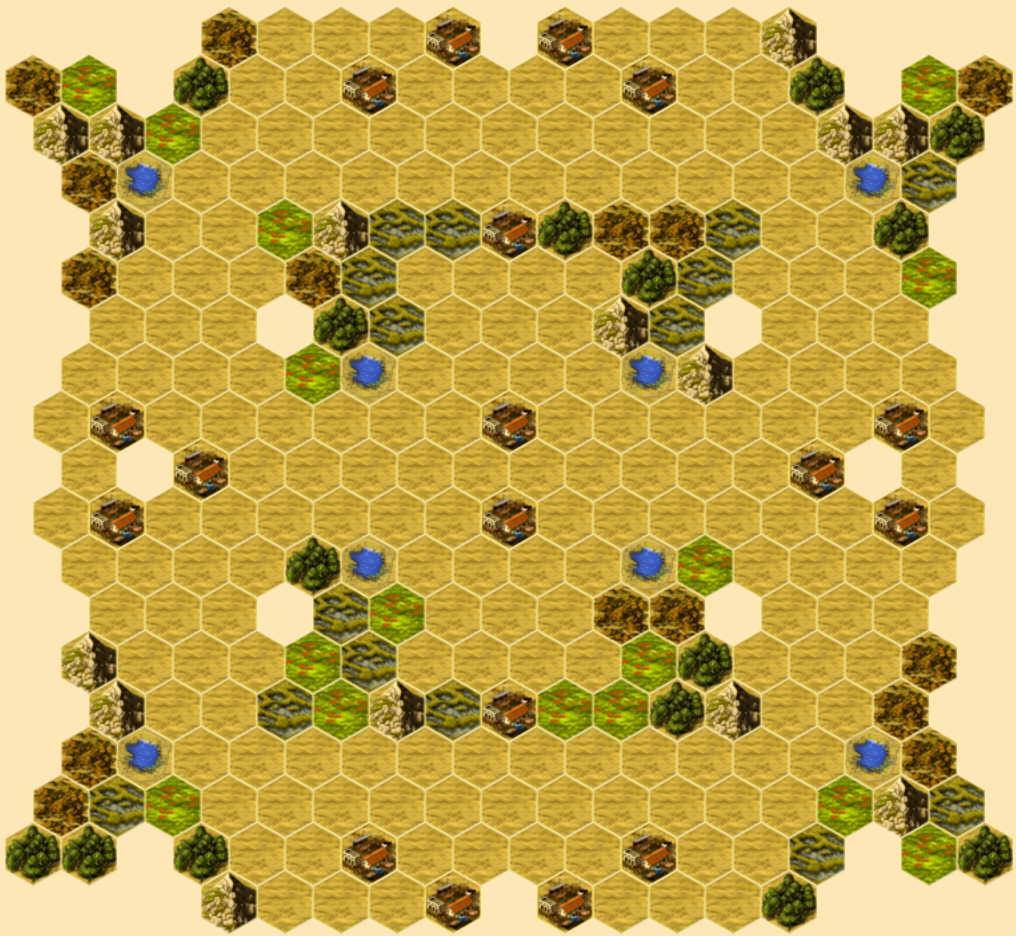
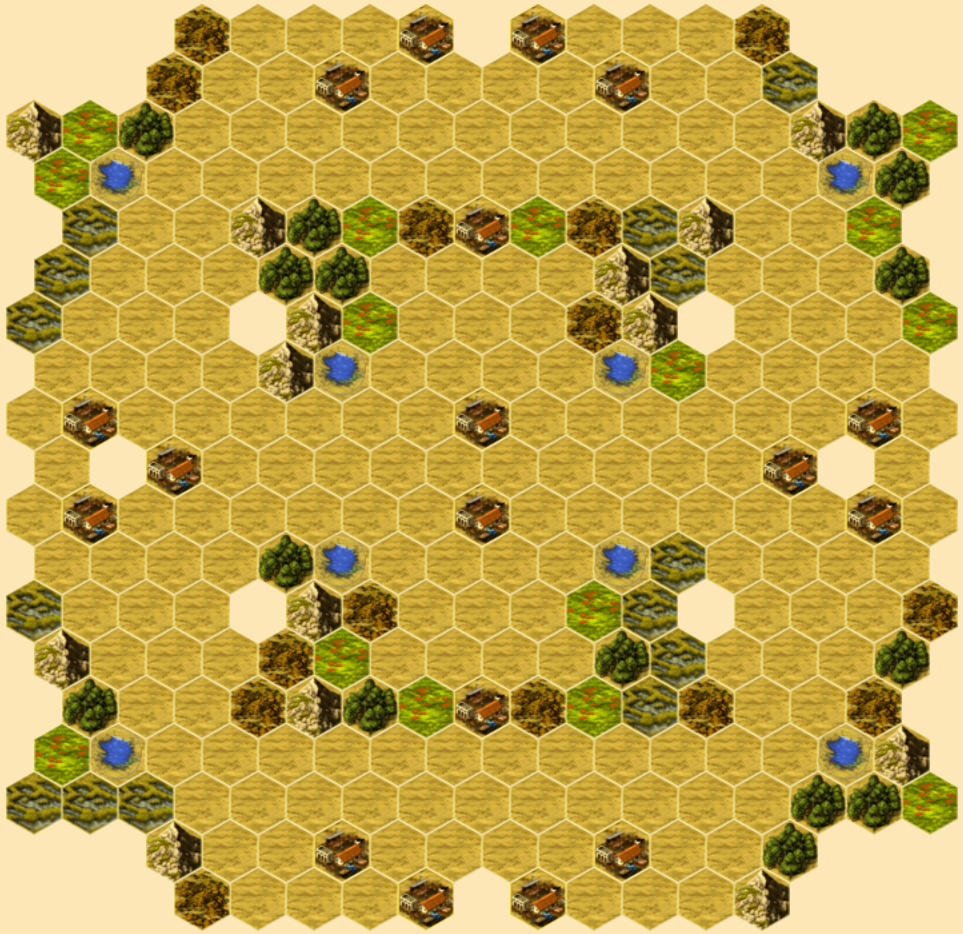
goldsmith, peachy

diff --git a/README.md b/README.md
@@ -125,6 +125,9 @@ The maps explore various ideas.  The titles may offer clues.  I won't attempt to
 ### Ginger Chew
 [![Ginger Chew](images/ginger-chew.png)](GingerChew.haz)
 
+### Goldsmith
+[![Goldsmith](images/goldsmith.png)](Goldsmith.haz)
+
 ### Grade
 [![Grade](images/grade.png)](Grade.haz)
 
@@ -226,9 +229,6 @@ The maps explore various ideas.  The titles may offer clues.  I won't attempt to
 
 ### U-Turn
 [![U-Turn](images/u-turn.png)](UTurn.haz)
-
-### Wat
-[![Wat](images/wat.png)](Wat.haz)
 
 ### Wayfinder
 [![Wayfinder](images/wayfinder.png)](Wayfinder.haz)
